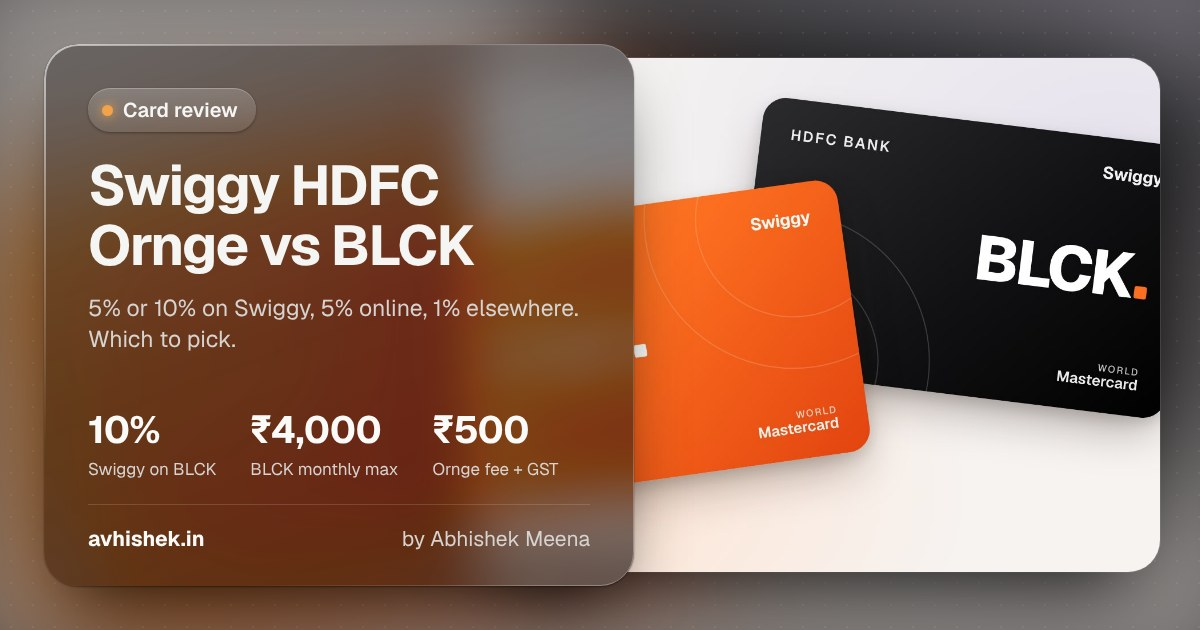
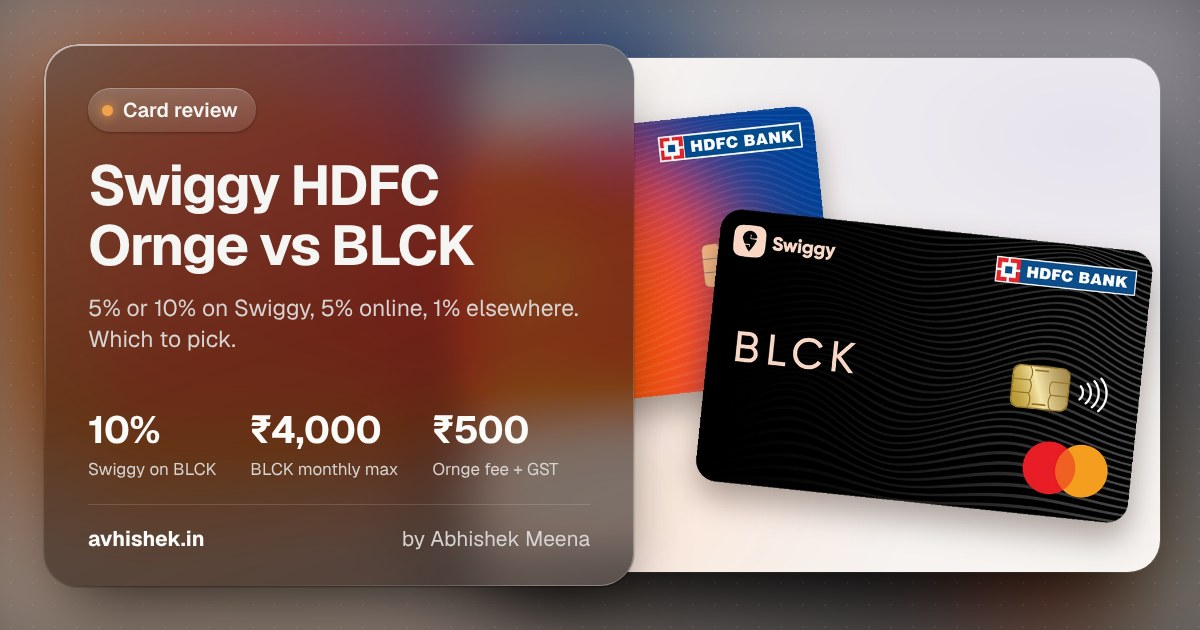
Use HDFC Bank's official Swiggy Ornge and BLCK card images
Hero, listing and link preview now show the official card designs from
HDFC Bank's product pages instead of an illustration.

Claude-Session: https://claude.ai/code/session_01Sx266UoAp8L27r6mE6KTNS

diff --git a/card-reviews/swiggy-hdfc-ornge-blck-credit-card.html b/card-reviews/swiggy-hdfc-ornge-blck-credit-card.html
@@ -129,7 +129,7 @@
       </div>
     </div>
     <figure class="rv-hero-card">
-      <img class="pv-art" src="/assets/reviews/swiggy-hdfc-ornge-blck-credit-card.jpg" srcset="/assets/reviews/swiggy-hdfc-ornge-blck-credit-card-800.webp 800w, /assets/reviews/swiggy-hdfc-ornge-blck-credit-card-1200.webp 1200w, /assets/reviews/swiggy-hdfc-ornge-blck-credit-card.jpg 1600w" sizes="(min-width: 1280px) 504px, (min-width: 900px) 40vw, 100vw" alt="Illustration of the Swiggy HDFC Bank Ornge and BLCK credit cards: an orange card with the word Ornge in front of a black card with the word BLCK" width="1600" height="900" loading="eager" fetchpriority="high">
+      <img class="pv-art" src="/assets/reviews/swiggy-hdfc-ornge-blck-credit-card.jpg" srcset="/assets/reviews/swiggy-hdfc-ornge-blck-credit-card-800.webp 800w, /assets/reviews/swiggy-hdfc-ornge-blck-credit-card-1200.webp 1200w, /assets/reviews/swiggy-hdfc-ornge-blck-credit-card.jpg 1600w" sizes="(min-width: 1280px) 504px, (min-width: 900px) 40vw, 100vw" alt="The Swiggy HDFC Bank Ornge credit card, orange fading to blue, next to the black Swiggy BLCK credit card, both Mastercard" width="1600" height="900" loading="eager" fetchpriority="high">
       <figcaption>
         <dl class="rv-spec">
           <div><dt>Swiggy cashback</dt><dd>Ornge 5%, BLCK 10%</dd></div>
@@ -485,7 +485,7 @@
           <li><a href="https://www.hdfc.bank.in/content/dam/hdfcbankpws/in/en/personal-banking/discover-products/cards/credit-cards/swiggy-ornge-hdfc-bank-credit-card/pdf/fyf-offer-tncs.pdf" target="_blank" rel="noopener noreferrer">HDFC Bank: Ornge first-year-free and lifetime-free offer terms (PDF)<span class="rv-tag">Issuer</span><span class="sr-only"> (opens in a new tab)</span></a></li>
           <li><a href="https://www.hdfc.bank.in/content/dam/hdfcbankpws/in/en/personal-banking/discover-products/cards/credit-cards/swiggy-hdfc-bank-credit-card/pdf/faq-swiggy-migration-29-10-2026.pdf" target="_blank" rel="noopener noreferrer">HDFC Bank: Swiggy card migration FAQs, 29 Oct 2026 (PDF)<span class="rv-tag">Issuer</span><span class="sr-only"> (opens in a new tab)</span></a></li>
         </ul>
-        <p class="rv-fineprint">Cashback rates, caps, exclusions, welcome and partner offers, and upgrade rules come from the combined terms. Eligibility, golf and the interest-free period come from the product pages. Fees, interest, late fee and usage fees come from the MITC. Migration details come from the migration FAQ. The card picture is an illustration, not HDFC Bank’s card design. This is an independent review, not financial advice or an HDFC Bank or Swiggy endorsement.</p>
+        <p class="rv-fineprint">Cashback rates, caps, exclusions, welcome and partner offers, and upgrade rules come from the combined terms. Eligibility, golf and the interest-free period come from the product pages. Fees, interest, late fee and usage fees come from the MITC. Migration details come from the migration FAQ. Card images are HDFC Bank’s official card designs from its product pages. This is an independent review, not financial advice or an HDFC Bank or Swiggy endorsement.</p>
       </section>
       <aside class="wa-follow rv-follow" aria-labelledby="follow-title">
         <span class="wa-follow-icon" aria-hidden="true"><svg viewBox="0 0 24 24" width="32" height="32" focusable="false"><path fill="currentColor" d="M17.472 14.382c-.297-.149-1.758-.867-2.03-.967-.273-.099-.471-.148-.67.15-.197.297-.767.966-.94 1.164-.173.199-.347.223-.644.075-.297-.15-1.255-.463-2.39-1.475-.883-.788-1.48-1.761-1.653-2.059-.173-.297-.018-.458.13-.606.134-.133.298-.347.446-.52.149-.174.198-.298.298-.497.099-.198.05-.371-.025-.52-.075-.149-.669-1.612-.916-2.207-.242-.579-.487-.5-.669-.51-.173-.008-.371-.01-.57-.01-.198 0-.52.074-.792.372-.272.297-1.04 1.016-1.04 2.479 0 1.462 1.065 2.875 1.213 3.074.149.198 2.096 3.2 5.077 4.487.709.306 1.262.489 1.694.625.712.227 1.36.195 1.871.118.571-.085 1.758-.719 2.006-1.413.248-.694.248-1.289.173-1.413-.074-.124-.272-.198-.57-.347m-5.421 7.403h-.004a9.87 9.87 0 01-5.031-1.378l-.361-.214-3.741.982.998-3.648-.235-.374a9.86 9.86 0 01-1.51-5.26c.001-5.45 4.436-9.884 9.888-9.884 2.64 0 5.122 1.03 6.988 2.898a9.825 9.825 0 012.893 6.994c-.003 5.45-4.437 9.884-9.885 9.884m8.413-18.297A11.815 11.815 0 0012.05 0C5.495 0 .16 5.335.157 11.892c0 2.096.547 4.142 1.588 5.945L.057 24l6.305-1.654a11.882 11.882 0 005.683 1.448h.005c6.554 0 11.89-5.335 11.893-11.893a11.821 11.821 0 00-3.48-8.413Z"/></svg></span>
